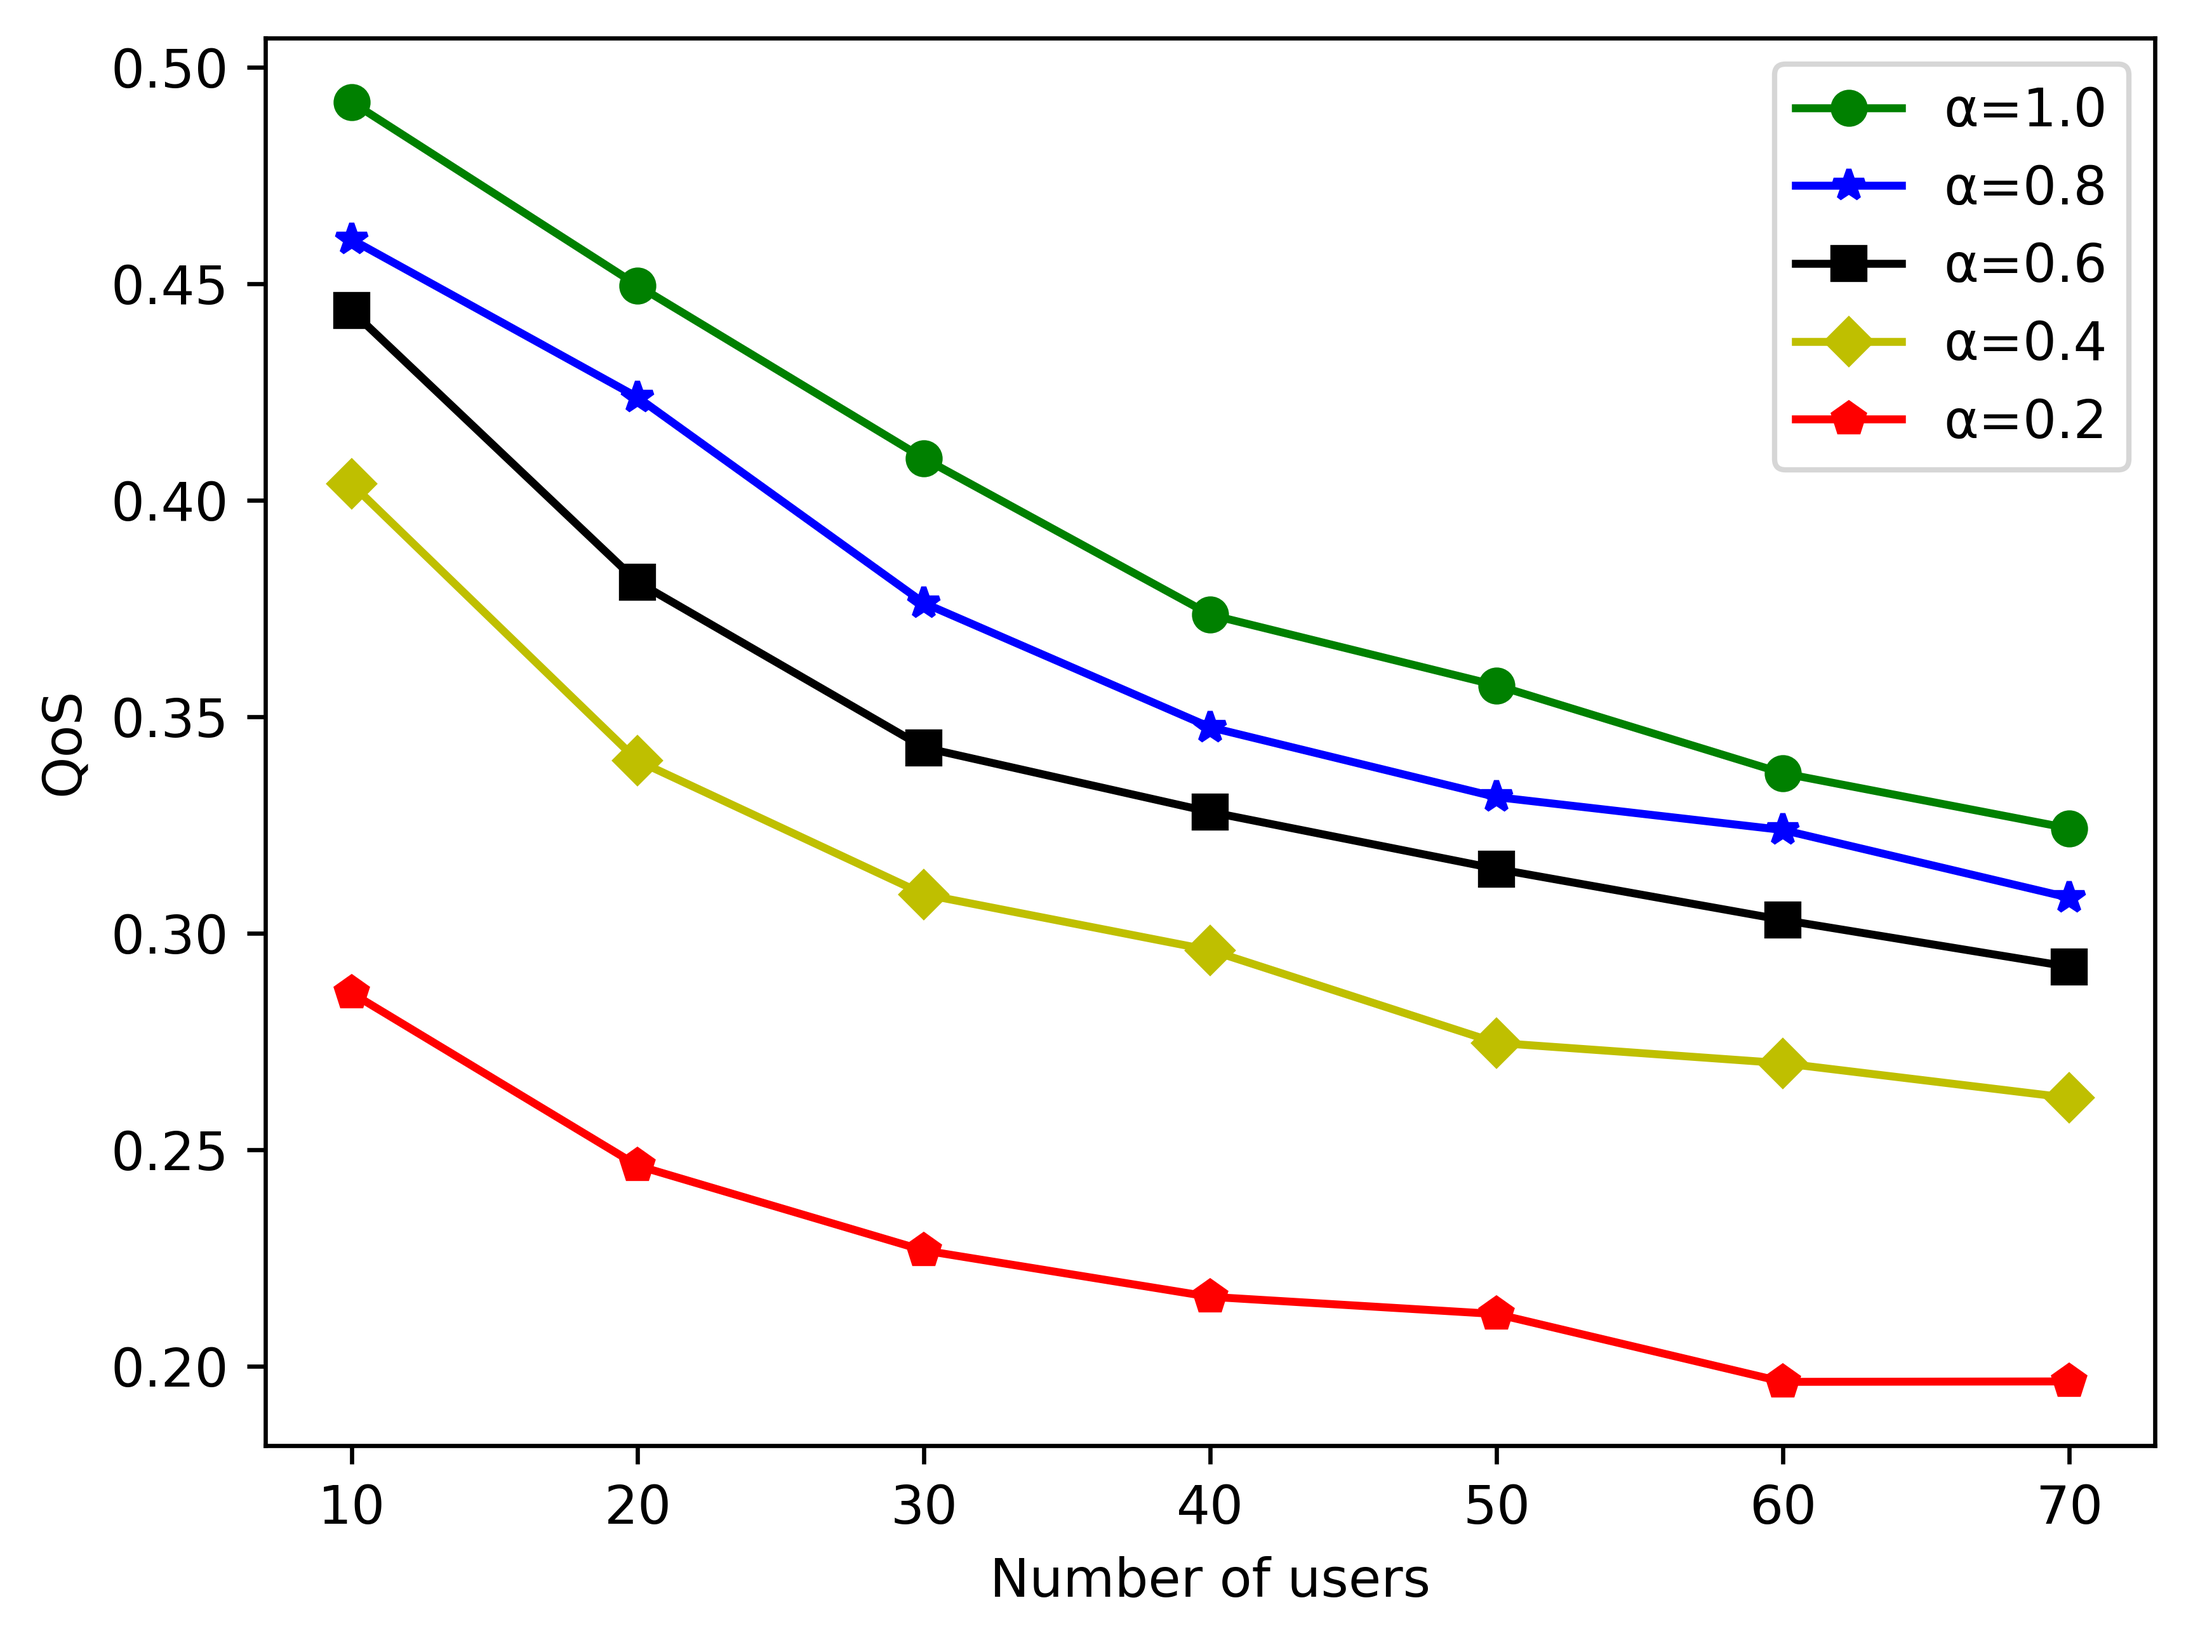
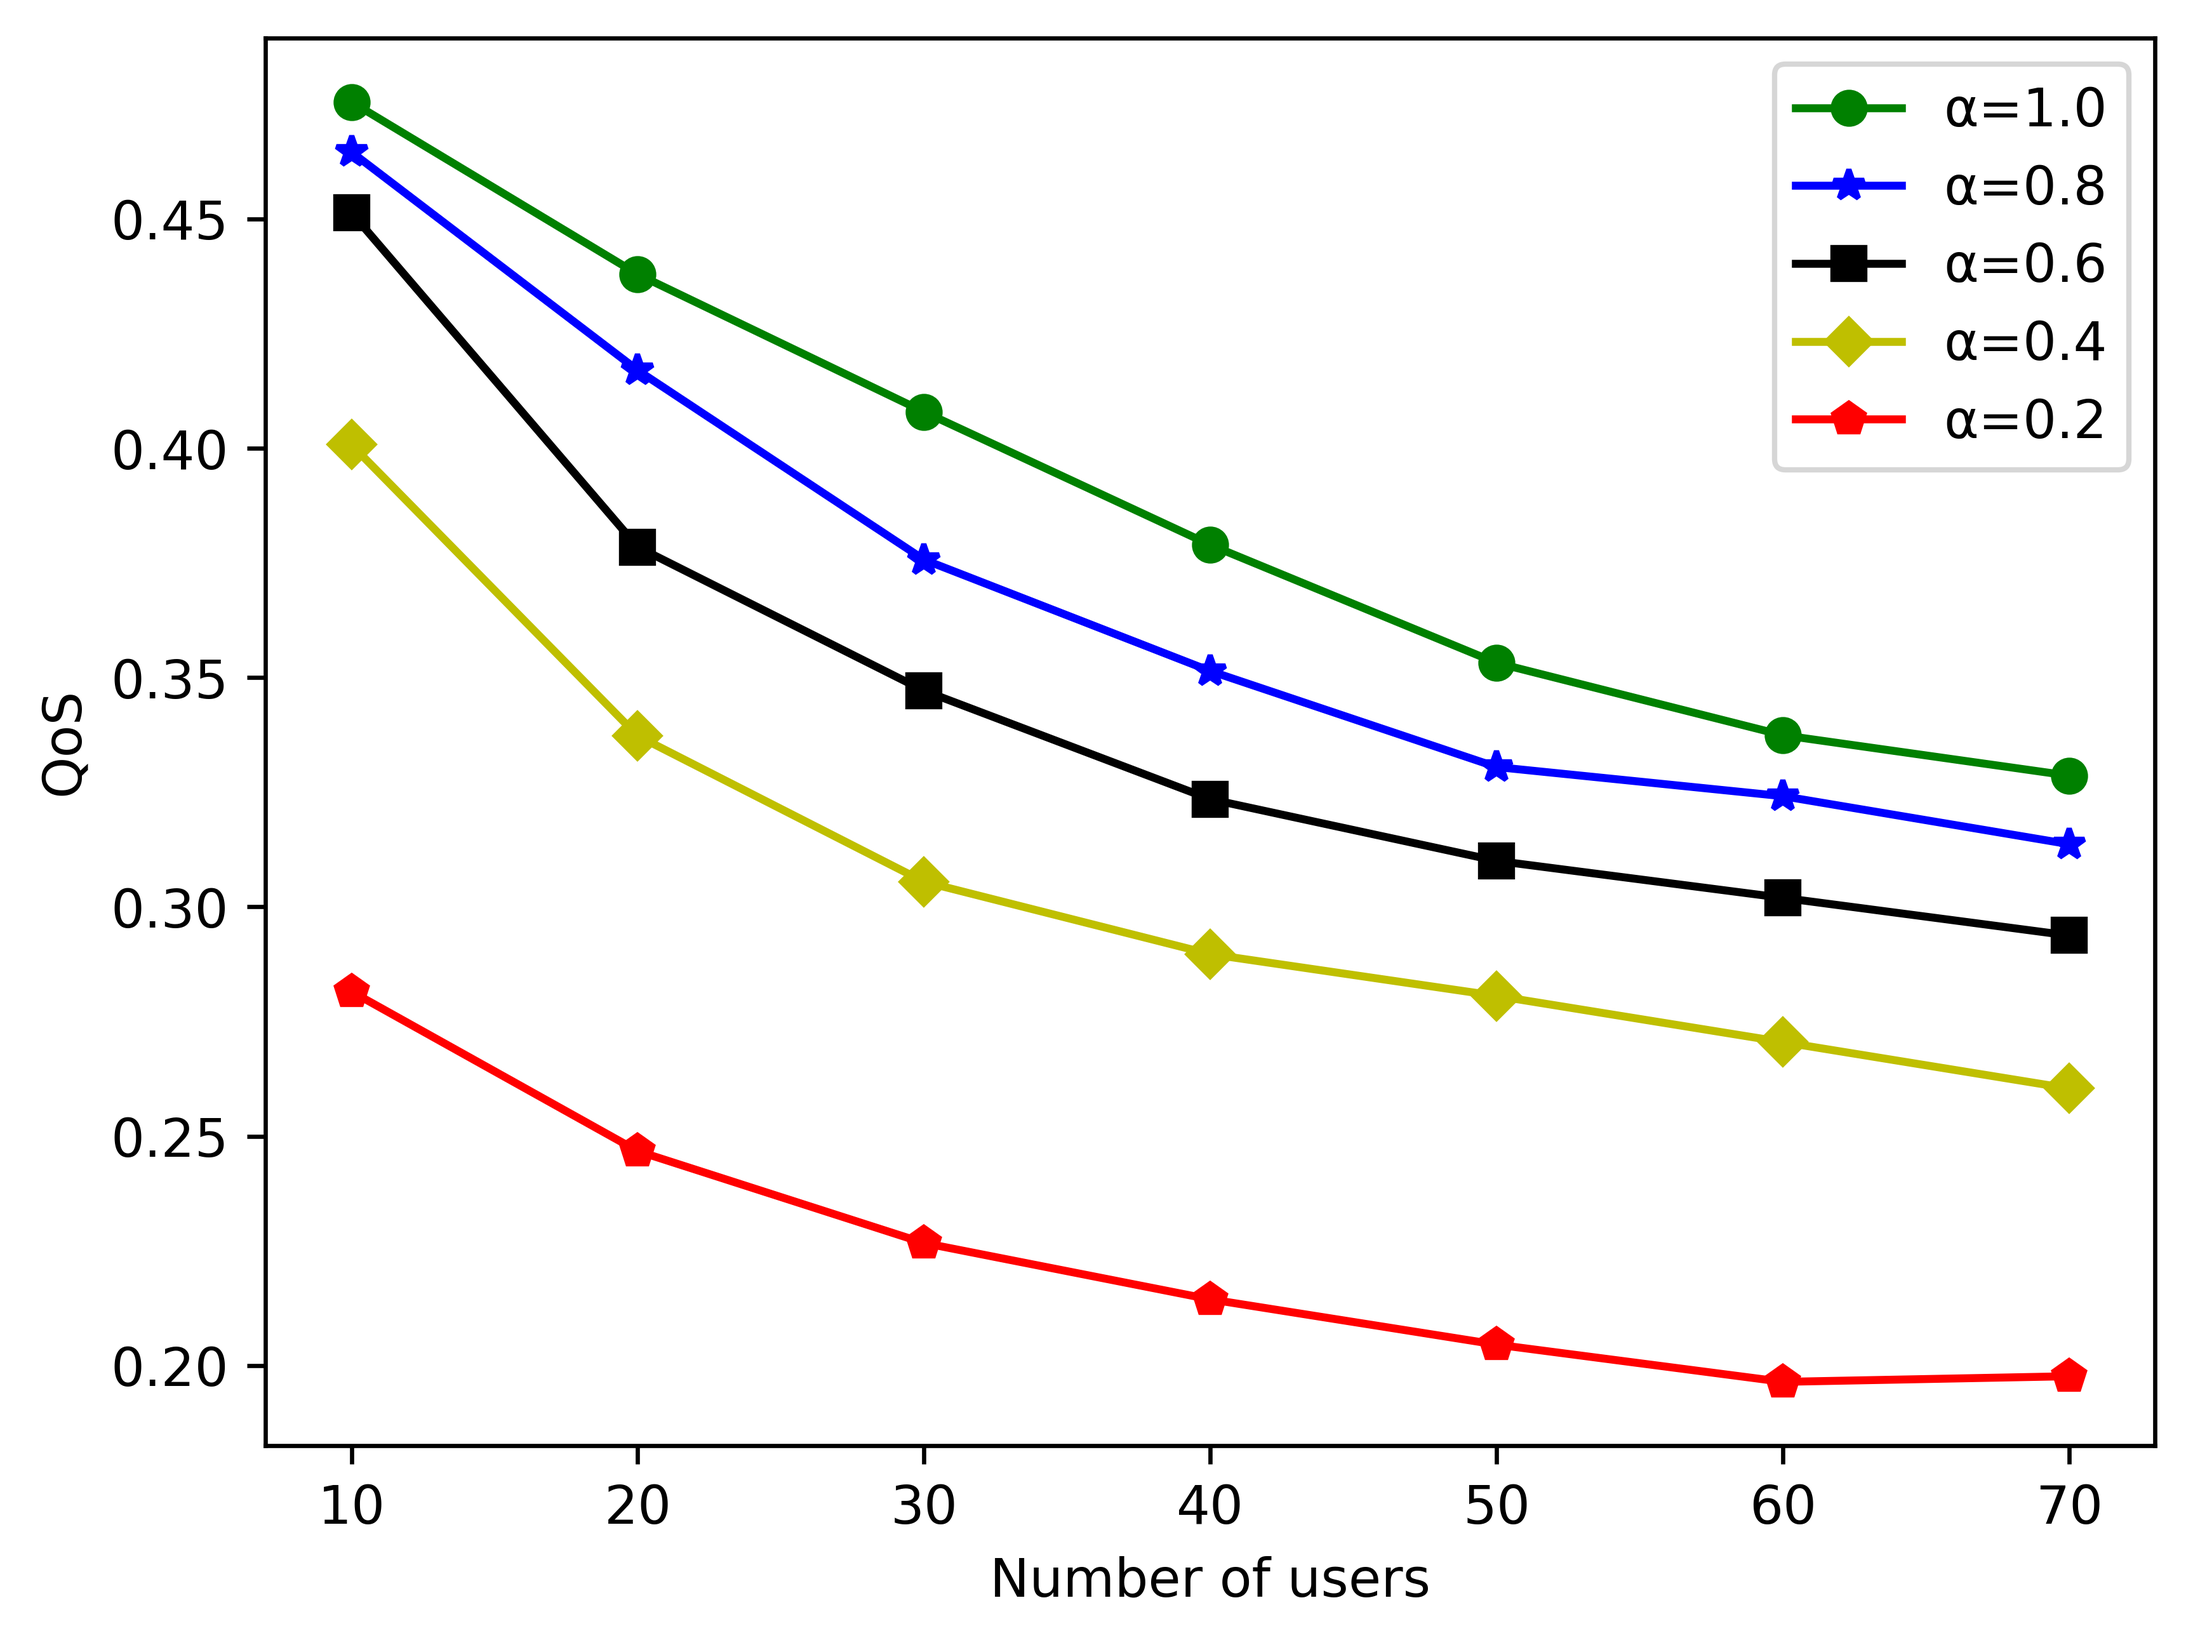
123456

diff --git a/RL.py b/RL.py
@@ -1,13 +1,23 @@
 #from keras.layers import Flatten, Dense, Activation
 #from keras.models import Sequential
+from math import log2
+import matplotlib.pyplot as plt
 import numpy as np
 
-history=6
-epsilon=0.1
-explore=3000000
-gamma=0.8
+traffic=[29, 32, 39, 43, 50, 38, 38, 22, 12, 6, 3, 2, 3, 3, 7, 12, 15, 20, 28, 26, 33, 39, 36, 44, 30, 36, 41, 50, 48, 45, 32, 22, 12, 7, 4, 2, 1, 3, 7, 13, 25, 30, 28, 37, 39, 42, 47, 38, 32, 43, 45, 44, 49, 51, 42, 31, 19, 9, 5, 3, 2, 3, 6, 13, 19, 27, 27, 32, 43, 47, 55, 46, 35, 36, 39, 43, 38, 46, 37, 29, 23, 15, 6, 2, 1, 2, 4, 6, 13, 18, 26, 35, 37, 37, 36, 43, 39, 37, 48, 43, 43, 40, 35, 31, 21, 14, 6, 3, 2, 2, 3, 7, 11, 17, 25, 34, 40, 41, 43, 38, 26, 32, 41, 36, 43, 52, 39, 28, 20, 13, 6, 4, 3, 3, 7, 17, 24, 26, 37, 34, 39, 38, 46, 44, 37, 38, 47, 48, 52, 59, 46, 30, 16, 9, 3, 2, 3, 3, 6, 16, 19, 23, 26, 32, 33, 39, 44, 43, 33, 41, 42, 39, 51, 57, 44, 28, 20, 10, 5, 2, 1, 3, 6, 12, 23, 28, 27, 34, 35, 48, 50, 49, 36, 44, 45, 44, 49, 51, 48, 32, 20, 12, 5, 4, 2, 3, 6, 15, 19, 19, 33, 33, 33, 43, 46, 39, 35, 42, 48, 47, 51, 63, 50, 35, 24, 14, 6, 3, 2, 2, 6, 14, 22, 29, 26, 33, 42, 48, 48, 42, 37, 41, 41, 38, 41, 40, 33, 26, 22, 12, 5, 3, 1, 2, 3, 9, 14, 20, 22, 29, 33, 35, 38, 41, 35, 38, 38, 42, 42, 42, 36, 31, 24, 17, 9, 5, 4, 3, 3, 3, 10, 16, 21, 29, 33, 39, 42, 39, 32, 46, 49, 52, 52, 57, 45, 32, 20, 10, 3, 4, 3, 2]
 
-def cal_QoS(users, action):
+history=6
+epsilon=1
+gamma=0.8
+zeta=150
+
+N=1e-10
+F=10
+
+num=20
+
+def cal_profit(users, action):
+
 	def gen_task():
 		tasks=dict()
 		for i in range(users):
@@ -16,13 +26,13 @@ def cal_QoS(users, action):
 			buf['d']=buf['a']
 			buf['fl']=np.random.uniform(1.5,2.5)
 			buf['Tm']=np.random.uniform(0.1,1)
-			buf['pri']=np.random.uniform(0.1,1)
+			buf['pri']=np.random.uniform(0.1,1)*5
 			buf['SINR']=(10**np.random.uniform(4,10))*7.5/N
 			tasks[i]=buf
 		return tasks
 
 	def iterative(tasks):
-		B=0.5+action/10
+		B=0.1+action*0.3
 
 		xi=list()
 		b=[0]*users
@@ -74,59 +84,169 @@ def cal_QoS(users, action):
 		
 		return reward/users
 
-	return iterative(gen_task())
+	QoS=iterative(gen_task())
+	revenue=users*QoS*4
+
+	#profit
+	return revenue-zeta*(0.1+action*0.3)/1.3
 
 
 #DRL
-def gen_data():
-	pass
+def DQL():
+	#一個episode
+	def play(episode):
+		global epsilon
+		for i in range(history, len(traffic)-1):
+			state=str(traffic[i-history:i])
+			#epsilon-greedy
+			if np.random.rand()<epsilon:
+				action=np.random.randint(5)
+
+			else:
+				best, action= 0, 0
+				for e in Q[state]:
+					if Q[state][e]>best:
+						best=Q[state][e]
+						action=e
+				if best==0:
+					action=np.random.randint(5)
+
+			if episode>0.01:
+				epsilon-=(1-0.01)/10000
+
+			Q[state][action]=(cal_profit(traffic[i+1], action) + Q[state][action]*episode )/(episode+1)
+
+
+	#放現在的RL進去玩
+	def exam():
+		profit=list()
+		perform=0
+		for i in range(history, len(traffic)-1):
+			state=str(traffic[i-history:i])
+			best, action= 0, 0
+			for e in Q[state]:
+				if Q[state][e]>best:
+					best=Q[state][e]
+					action=e
+			if best==0:
+				action=np.random.randint(5)
+			#print('next:',traffic[i+1],'action:',0.1+action*0.3)
+			for e in range(num):
+				perform+=cal_profit(traffic[i+1], action)/traffic[i+1]/num
+			#profit.append(cal_profit(traffic[i+1], action)/traffic[i+1])
+
+		return perform/len(traffic)
+		#plt.plot(traffic[6:],label='real')
+		#plt.plot(profit,label='revenue')
+		#plt.legend()
+		#plt.show()
+
+
+	def main():
+		episode=0
+		init()
+
+		x=list()
+		result=list()
+
+		while episode<1000:
+			play(episode)
+			#test revenue
+			if episode%100==0:
+				x.append(episode)
+				result.append(exam())
+			print(episode)
+			episode+=1
+
+		plt.plot(x,result,"go-",label='unit_profit')
+		plt.legend()
+		plt.savefig('unit_profit.jpg', dpi=600, bbox_inches='tight')
+		plt.show()
+
+	main()
 
 #純QL, 
 def QL():
-	traffic=[29, 32, 39, 43, 50, 38, 38, 22, 12, 6, 3, 2, 3, 3, 7, 12, 15, 20, 28, 26, 33, 39, 36, 44, 30, 36, 41, 50, 48, 45, 32, 22, 12, 7, 4, 2, 1, 3, 7, 13, 25, 30, 28, 37, 39, 42, 47, 38, 32, 43, 45, 44, 49, 51, 42, 31, 19, 9, 5, 3, 2, 3, 6, 13, 19, 27, 27, 32, 43, 47, 55, 46, 35, 36, 39, 43, 38, 46, 37, 29, 23, 15, 6, 2, 1, 2, 4, 6, 13, 18, 26, 35, 37, 37, 36, 43, 39, 37, 48, 43, 43, 40, 35, 31, 21, 14, 6, 3, 2, 2, 3, 7, 11, 17, 25, 34, 40, 41, 43, 38, 26, 32, 41, 36, 43, 52, 39, 28, 20, 13, 6, 4, 3, 3, 7, 17, 24, 26, 37, 34, 39, 38, 46, 44, 37, 38, 47, 48, 52, 59, 46, 30, 16, 9, 3, 2, 3, 3, 6, 16, 19, 23, 26, 32, 33, 39, 44, 43, 33, 41, 42, 39, 51, 57, 44, 28, 20, 10, 5, 2, 1, 3, 6, 12, 23, 28, 27, 34, 35, 48, 50, 49, 36, 44, 45, 44, 49, 51, 48, 32, 20, 12, 5, 4, 2, 3, 6, 15, 19, 19, 33, 33, 33, 43, 46, 39, 35, 42, 48, 47, 51, 63, 50, 35, 24, 14, 6, 3, 2, 2, 6, 14, 22, 29, 26, 33, 42, 48, 48, 42, 37, 41, 41, 38, 41, 40, 33, 26, 22, 12, 5, 3, 1, 2, 3, 9, 14, 20, 22, 29, 33, 35, 38, 41, 35, 38, 38, 42, 42, 42, 36, 31, 24, 17, 9, 5, 4, 3, 3, 3, 10, 16, 21, 29, 33, 39, 42, 39, 32, 46, 49, 52, 52, 57, 45, 32, 20, 10, 3, 4, 3, 2]
 	Q=dict()
 
 	#Q table
 	def init():
-		for i in range(6, len(traffic)-1):
-			Q[str(traffic[i-6:i])]=dict()
-			for e in range(11):		
-				Q[str(traffic[i-6:i])][e]=0
+		for i in range(history, len(traffic)-1):
+			Q[str(traffic[i-history:i])]=dict()
+			for e in range(5):		
+				Q[str(traffic[i-history:i])][e]=0
 
 	#一個episode
 	def play(episode):
-		for i in range(6, len(traffic)-1):
-
+		global epsilon
+		for i in range(history, len(traffic)-1):
+			state=str(traffic[i-history:i])
 			#epsilon-greedy
-			if np.random.rand()<0.2:
-				action=np.random.randint(11)
+			if np.random.rand()<epsilon:
+				action=np.random.randint(5)
 
 			else:
 				best, action= 0, 0
-				for e in Q[str(traffic[i-6:i])]:
-					if Q[str(traffic[i-6:i])][e]>best:
-						best=Q[str(traffic[i-6:i])][e]
+				for e in Q[state]:
+					if Q[state][e]>best:
+						best=Q[state][e]
 						action=e
 				if best==0:
-					action=np.random.randint(11)
+					action=np.random.randint(5)
 
-			Q[str(traffic[i-6:i])][action]=(cal_QoS(traffic[i+1], action)+Q[str(traffic[i-6:i])][action]*episode)/(episode+1)
+			if episode>0.01:
+				epsilon-=(1-0.01)/10000
 
-			#if epsilon>0.0001:
-			#	epsilon-=(0.1-0.0001)/explore
+			Q[state][action]=(cal_profit(traffic[i+1], action) + Q[state][action]*episode )/(episode+1)
 
+
+	#放現在的RL進去玩
 	def exam():
-		pass
+		profit=list()
+		perform=0
+		for i in range(history, len(traffic)-1):
+			state=str(traffic[i-history:i])
+			best, action= 0, 0
+			for e in Q[state]:
+				if Q[state][e]>best:
+					best=Q[state][e]
+					action=e
+			if best==0:
+				action=np.random.randint(5)
+			#print('next:',traffic[i+1],'action:',0.1+action*0.3)
+			for e in range(num):
+				perform+=cal_profit(traffic[i+1], action)/traffic[i+1]/num
+			#profit.append(cal_profit(traffic[i+1], action)/traffic[i+1])
+
+		return perform/len(traffic)
+		#plt.plot(traffic[6:],label='real')
+		#plt.plot(profit,label='revenue')
+		#plt.legend()
+		#plt.show()
 
 
 	def main():
-		episode=1
+		episode=0
 		init()
 
-		while 1:
+		x=list()
+		result=list()
+
+		while episode<1000:
 			play(episode)
-			episode+=1
 			#test revenue
+			if episode%100==0:
+				x.append(episode)
+				result.append(exam())
+			print(episode)
+			episode+=1
+
+		plt.plot(x,result,"go-",label='unit_profit')
+		plt.legend()
+		plt.savefig('unit_profit.jpg', dpi=600, bbox_inches='tight')
+		plt.show()
+
+	main()
 
 QL()
 
@@ -139,3 +259,5 @@ def DNN():
 	model.add(Dense(1))
 	model.compile(loss='mae', optimizer='adam', metrics=['mae'])
 	model.fit([train_x], [train_y], epochs=1000, batch_size=100)
+
+#4/8: QL done, traffic range 2~50, for 0.3, revenue=0.6~15*5, for 1.3, revenue=1~25*5

diff --git a/UCD.py b/UCD.py
@@ -16,7 +16,6 @@ def gen_task():
 	for i in range(users):
 		buf=dict()
 		buf['a']=np.random.uniform(100,1000)*2/1000
-		#buf['d']=np.random.uniform(100,2000)/1000
 		buf['d']=buf['a']
 		buf['fl']=np.random.uniform(1.5,2.5)
 		buf['Tm']=np.random.uniform(avg,1)
@@ -539,7 +538,7 @@ def draw_alpha():
 			result[a].append(perform)
 			users+=10
 		B+=0.3
-
+		print(B)
 
 	plt.plot(x,result[4],"go-",label='α=1.0')
 	plt.plot(x,result[3],"b*-",label='α=0.8')
@@ -562,4 +561,4 @@ draw_alpha()
 
 #4/7重新開工
 
-#4/8畫各alpha下的QoS值
+#4/8畫各alpha下的QoS值 B=0.1~1.3 QoS=0.3~0.5
